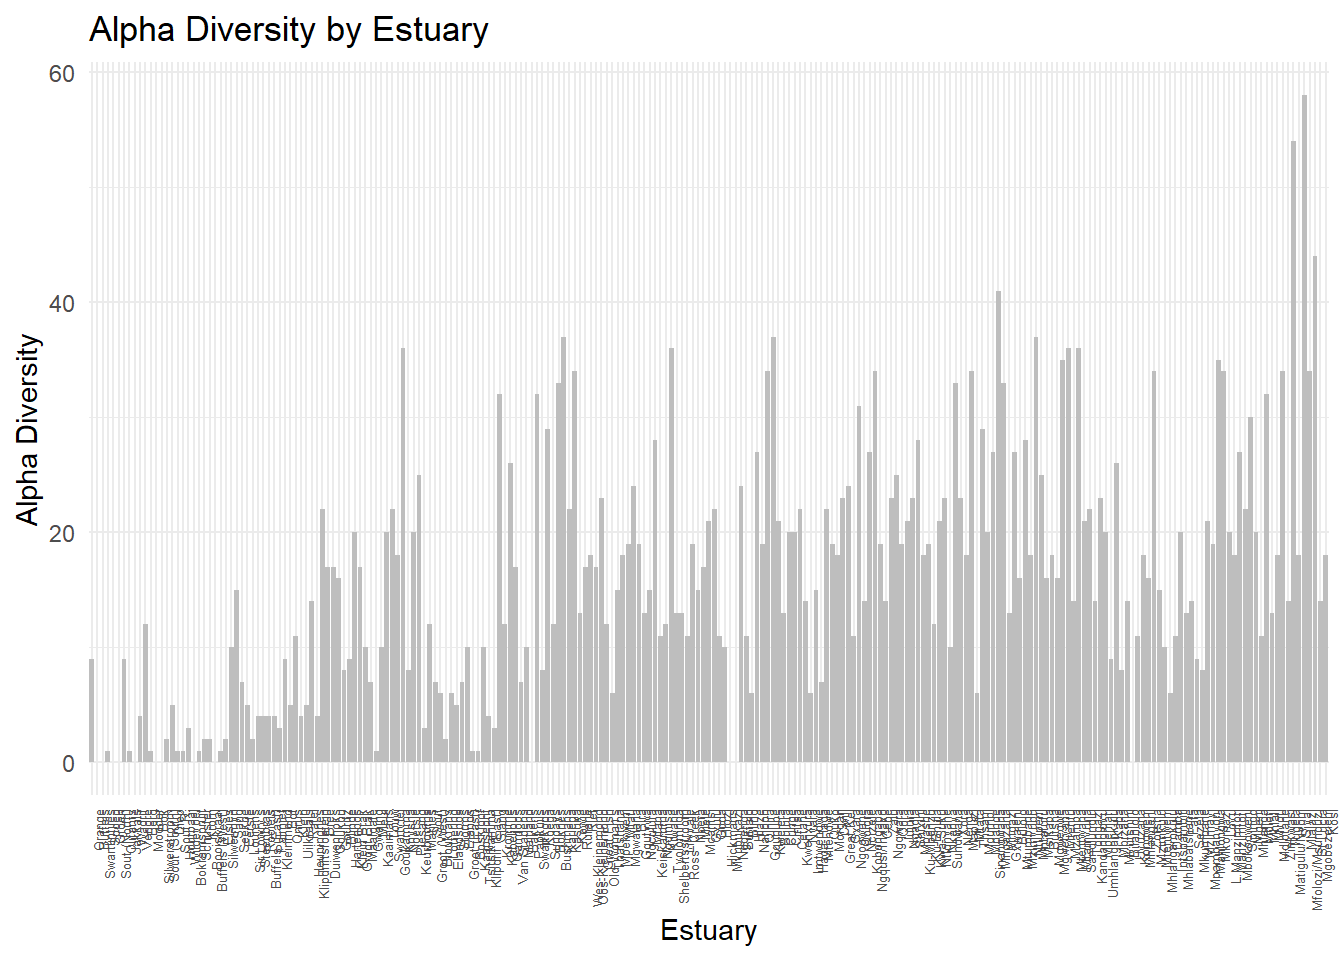
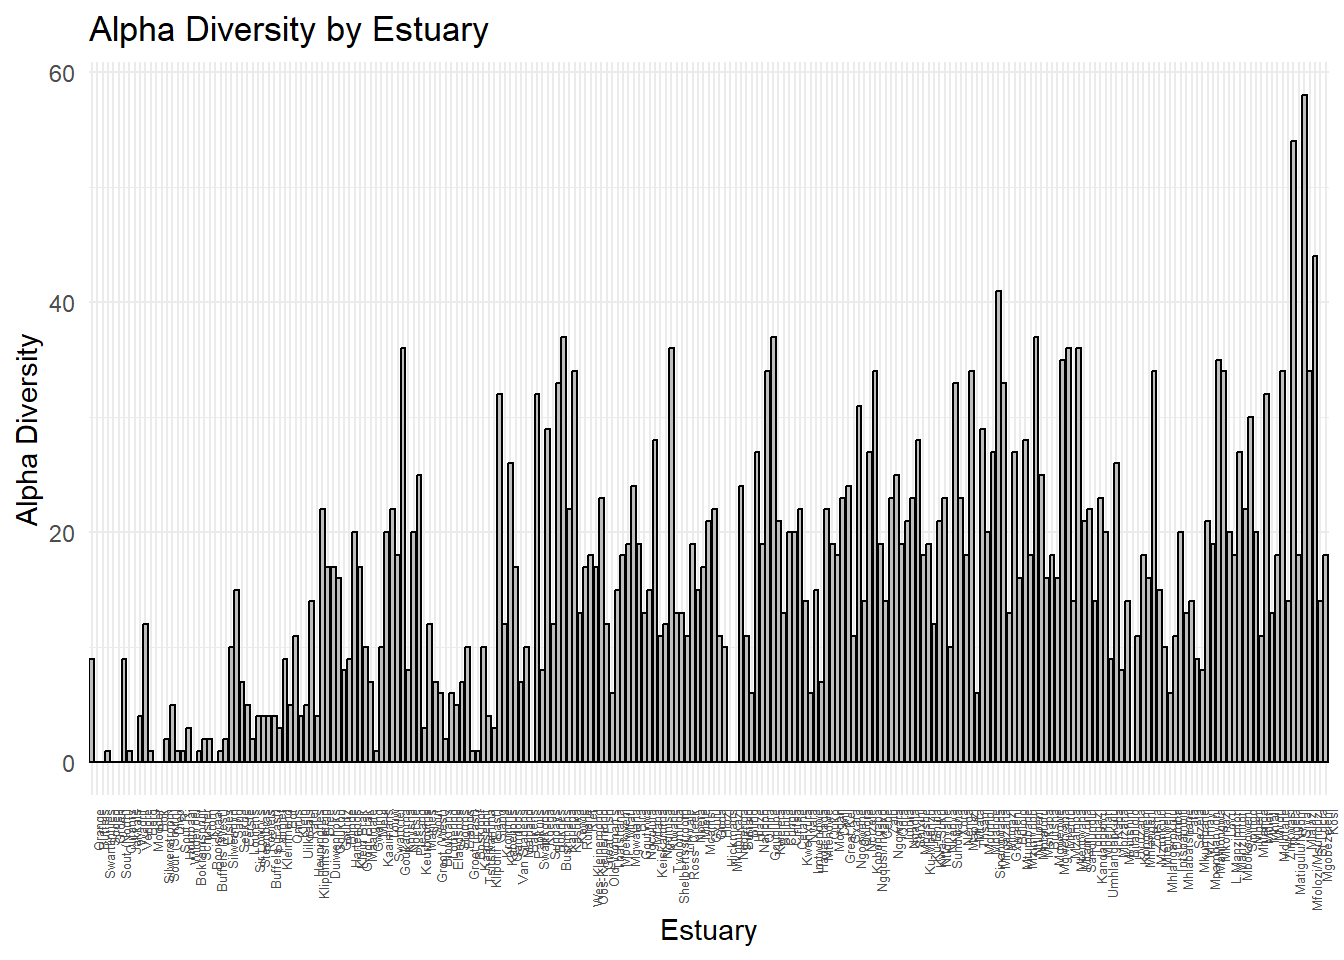
Added calculations on range limits and range centres of each species and plotted a histogram.

Changed region(s): [[0.0625, 0.1562, 1.0, 0.8125]]

diff --git a/code/marine-spatial-planning.html b/code/marine-spatial-planning.html
@@ -151,7 +151,7 @@ Loading required package: lattice</code></pre>
 <span id="cb8-3"><a href="#cb8-3" aria-hidden="true" tabindex="-1"></a></span>
 <span id="cb8-4"><a href="#cb8-4" aria-hidden="true" tabindex="-1"></a><span class="co"># Plot barplot</span></span>
 <span id="cb8-5"><a href="#cb8-5" aria-hidden="true" tabindex="-1"></a><span class="fu">ggplot</span>(EF, <span class="fu">aes</span>(<span class="at">x =</span> Estuary, <span class="at">y =</span> alpha)) <span class="sc">+</span></span>
-<span id="cb8-6"><a href="#cb8-6" aria-hidden="true" tabindex="-1"></a>  <span class="fu">geom_bar</span>(<span class="at">stat =</span> <span class="st">"identity"</span>, <span class="at">fill =</span> <span class="st">"grey"</span>) <span class="sc">+</span></span>
+<span id="cb8-6"><a href="#cb8-6" aria-hidden="true" tabindex="-1"></a>  <span class="fu">geom_bar</span>(<span class="at">stat =</span> <span class="st">"identity"</span>, <span class="at">fill =</span> <span class="st">"grey"</span>, <span class="at">color =</span> <span class="st">"black"</span>) <span class="sc">+</span></span>
 <span id="cb8-7"><a href="#cb8-7" aria-hidden="true" tabindex="-1"></a>  <span class="fu">labs</span>(<span class="at">title =</span> <span class="st">"Alpha Diversity by Estuary"</span>,</span>
 <span id="cb8-8"><a href="#cb8-8" aria-hidden="true" tabindex="-1"></a>       <span class="at">x =</span> <span class="st">"Estuary"</span>,</span>
 <span id="cb8-9"><a href="#cb8-9" aria-hidden="true" tabindex="-1"></a>       <span class="at">y =</span> <span class="st">"Alpha Diversity"</span>) <span class="sc">+</span></span>
@@ -552,6 +552,74 @@ Loading required package: lattice</code></pre>
 </div>
 </div>
 <p>However, this is way less species than our previous methods.</p>
+</section>
+<section id="range-centre-method" class="level2">
+<h2 class="anchored" data-anchor-id="range-centre-method">Range Centre Method</h2>
+<p>Let’s try a different method using the range and range centre for each species. To do this we will need to calculate the western and eastern limits, as well as the centre of the range for each species.</p>
+<p>First we need to extract the species abundance data and <code>kmWest</code> values from <code>EF</code>.</p>
+<div class="cell">
+<div class="sourceCode cell-code" id="cb52"><pre class="sourceCode r code-with-copy"><code class="sourceCode r"><span id="cb52-1"><a href="#cb52-1" aria-hidden="true" tabindex="-1"></a><span class="co"># species abundance data</span></span>
+<span id="cb52-2"><a href="#cb52-2" aria-hidden="true" tabindex="-1"></a>spp <span class="ot">&lt;-</span> EF[, <span class="dv">4</span><span class="sc">:</span><span class="dv">148</span>]</span>
+<span id="cb52-3"><a href="#cb52-3" aria-hidden="true" tabindex="-1"></a></span>
+<span id="cb52-4"><a href="#cb52-4" aria-hidden="true" tabindex="-1"></a><span class="co"># distance from western boundary</span></span>
+<span id="cb52-5"><a href="#cb52-5" aria-hidden="true" tabindex="-1"></a>coords <span class="ot">&lt;-</span> EF<span class="sc">$</span>kmWest          </span></code><button title="Copy to Clipboard" class="code-copy-button"><i class="bi"></i></button></pre></div>
+</div>
+<p>Now we need to calculate the range for each species. We can create a function to do this.</p>
+<div class="cell">
+<div class="sourceCode cell-code" id="cb53"><pre class="sourceCode r code-with-copy"><code class="sourceCode r"><span id="cb53-1"><a href="#cb53-1" aria-hidden="true" tabindex="-1"></a>range_stats <span class="ot">&lt;-</span> <span class="cf">function</span>(abundance, coords) {</span>
+<span id="cb53-2"><a href="#cb53-2" aria-hidden="true" tabindex="-1"></a>  present_coords <span class="ot">&lt;-</span> coords[abundance <span class="sc">&gt;</span> <span class="dv">0</span>]  <span class="co"># get kmWest values where species is present</span></span>
+<span id="cb53-3"><a href="#cb53-3" aria-hidden="true" tabindex="-1"></a>  </span>
+<span id="cb53-4"><a href="#cb53-4" aria-hidden="true" tabindex="-1"></a>  <span class="cf">if</span> (<span class="fu">length</span>(present_coords) <span class="sc">==</span> <span class="dv">0</span>) {</span>
+<span id="cb53-5"><a href="#cb53-5" aria-hidden="true" tabindex="-1"></a>    <span class="co"># species not present anywhere</span></span>
+<span id="cb53-6"><a href="#cb53-6" aria-hidden="true" tabindex="-1"></a>    <span class="fu">return</span>(<span class="fu">c</span>(<span class="at">west_limit =</span> <span class="cn">NA</span>, <span class="at">east_limit =</span> <span class="cn">NA</span>, <span class="at">center =</span> <span class="cn">NA</span>))</span>
+<span id="cb53-7"><a href="#cb53-7" aria-hidden="true" tabindex="-1"></a>  } <span class="cf">else</span> {</span>
+<span id="cb53-8"><a href="#cb53-8" aria-hidden="true" tabindex="-1"></a>    west <span class="ot">&lt;-</span> <span class="fu">min</span>(present_coords)                    <span class="co"># furthest west point</span></span>
+<span id="cb53-9"><a href="#cb53-9" aria-hidden="true" tabindex="-1"></a>    east <span class="ot">&lt;-</span> <span class="fu">max</span>(present_coords)                    <span class="co"># furthest east point</span></span>
+<span id="cb53-10"><a href="#cb53-10" aria-hidden="true" tabindex="-1"></a>    centre <span class="ot">&lt;-</span> <span class="fu">mean</span>(<span class="fu">c</span>(west, east))                  <span class="co"># center of range</span></span>
+<span id="cb53-11"><a href="#cb53-11" aria-hidden="true" tabindex="-1"></a>    </span>
+<span id="cb53-12"><a href="#cb53-12" aria-hidden="true" tabindex="-1"></a>    <span class="fu">return</span>(<span class="fu">c</span>(<span class="at">west_limit =</span> west, <span class="at">east_limit =</span> east, <span class="at">centre =</span> centre))</span>
+<span id="cb53-13"><a href="#cb53-13" aria-hidden="true" tabindex="-1"></a>  }</span>
+<span id="cb53-14"><a href="#cb53-14" aria-hidden="true" tabindex="-1"></a>}</span>
+<span id="cb53-15"><a href="#cb53-15" aria-hidden="true" tabindex="-1"></a></span>
+<span id="cb53-16"><a href="#cb53-16" aria-hidden="true" tabindex="-1"></a><span class="co"># apply the function across all species (columns)</span></span>
+<span id="cb53-17"><a href="#cb53-17" aria-hidden="true" tabindex="-1"></a>spp_range <span class="ot">&lt;-</span> <span class="fu">t</span>(<span class="fu">apply</span>(spp, <span class="dv">2</span>, range_stats, <span class="at">coords =</span> coords))</span></code><button title="Copy to Clipboard" class="code-copy-button"><i class="bi"></i></button></pre></div>
+</div>
+<p>Now we just need to plop our results into a dataframe which contains the species names as well as their <code>west_limit</code>, <code>east_limit</code> and <code>centre</code> values.</p>
+<div class="cell">
+<div class="sourceCode cell-code" id="cb54"><pre class="sourceCode r code-with-copy"><code class="sourceCode r"><span id="cb54-1"><a href="#cb54-1" aria-hidden="true" tabindex="-1"></a><span class="co"># convert result to a clean data frame</span></span>
+<span id="cb54-2"><a href="#cb54-2" aria-hidden="true" tabindex="-1"></a>spp_range_list <span class="ot">&lt;-</span> <span class="fu">data.frame</span>(</span>
+<span id="cb54-3"><a href="#cb54-3" aria-hidden="true" tabindex="-1"></a>  <span class="at">Species =</span> <span class="fu">colnames</span>(spp),  <span class="co"># species names from column headers</span></span>
+<span id="cb54-4"><a href="#cb54-4" aria-hidden="true" tabindex="-1"></a>  spp_range                 <span class="co"># range stats: west, east, center</span></span>
+<span id="cb54-5"><a href="#cb54-5" aria-hidden="true" tabindex="-1"></a>)</span>
+<span id="cb54-6"><a href="#cb54-6" aria-hidden="true" tabindex="-1"></a></span>
+<span id="cb54-7"><a href="#cb54-7" aria-hidden="true" tabindex="-1"></a><span class="co"># preview first few rows of the result</span></span>
+<span id="cb54-8"><a href="#cb54-8" aria-hidden="true" tabindex="-1"></a><span class="fu">head</span>(spp_range_list)</span></code><button title="Copy to Clipboard" class="code-copy-button"><i class="bi"></i></button></pre></div>
+<div class="cell-output cell-output-stdout">
+<pre><code>                          Species west_limit east_limit centre
+Spot.damsel           Spot.damsel          3          3    3.0
+Estuarine.bream   Estuarine.bream        179       1034  606.5
+Bald.glassy           Bald.glassy        179       1139  659.0
+Slender.glassy     Slender.glassy          3        745  374.0
+Longspine.glassy Longspine.glassy          3        881  442.0
+Evileye.blaasop   Evileye.blaasop        267       2031 1149.0</code></pre>
+</div>
+</div>
+<p>Now we can plot a histogram with the frequency of range centres per 100 km.</p>
+<div class="cell">
+<div class="sourceCode cell-code" id="cb56"><pre class="sourceCode r code-with-copy"><code class="sourceCode r"><span id="cb56-1"><a href="#cb56-1" aria-hidden="true" tabindex="-1"></a><span class="fu">ggplot</span>(spp_range_list, <span class="fu">aes</span>(<span class="at">x =</span> centre)) <span class="sc">+</span></span>
+<span id="cb56-2"><a href="#cb56-2" aria-hidden="true" tabindex="-1"></a>  <span class="fu">geom_histogram</span>(<span class="at">binwidth =</span> <span class="dv">100</span>, <span class="at">fill =</span> <span class="st">"grey"</span>, <span class="at">color =</span> <span class="st">"black"</span>) <span class="sc">+</span></span>
+<span id="cb56-3"><a href="#cb56-3" aria-hidden="true" tabindex="-1"></a>  <span class="fu">xlab</span>(<span class="st">"Range Centre (km West)"</span>) <span class="sc">+</span></span>
+<span id="cb56-4"><a href="#cb56-4" aria-hidden="true" tabindex="-1"></a>  <span class="fu">ylab</span>(<span class="st">"Number of Species"</span>) <span class="sc">+</span></span>
+<span id="cb56-5"><a href="#cb56-5" aria-hidden="true" tabindex="-1"></a>  <span class="fu">ggtitle</span>(<span class="st">"Frequency of Species Range Centres (per 100 km)"</span>) <span class="sc">+</span></span>
+<span id="cb56-6"><a href="#cb56-6" aria-hidden="true" tabindex="-1"></a>  <span class="fu">theme_minimal</span>()</span></code><button title="Copy to Clipboard" class="code-copy-button"><i class="bi"></i></button></pre></div>
+<div class="cell-output-display">
+<div>
+<figure class="figure">
+<p><img src="marine-spatial-planning_files/figure-html/unnamed-chunk-38-1.png" class="img-fluid figure-img" width="672"></p>
+</figure>
+</div>
+</div>
+</div>
 </section>
 
 </main>
